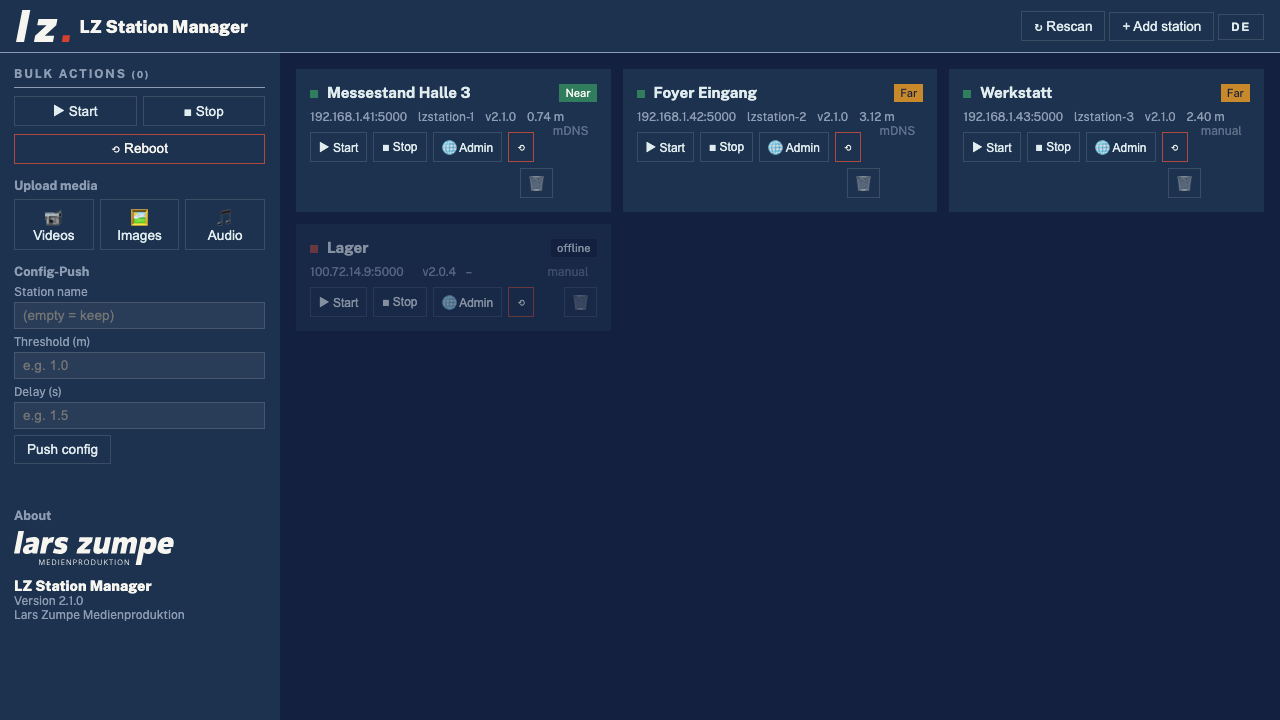
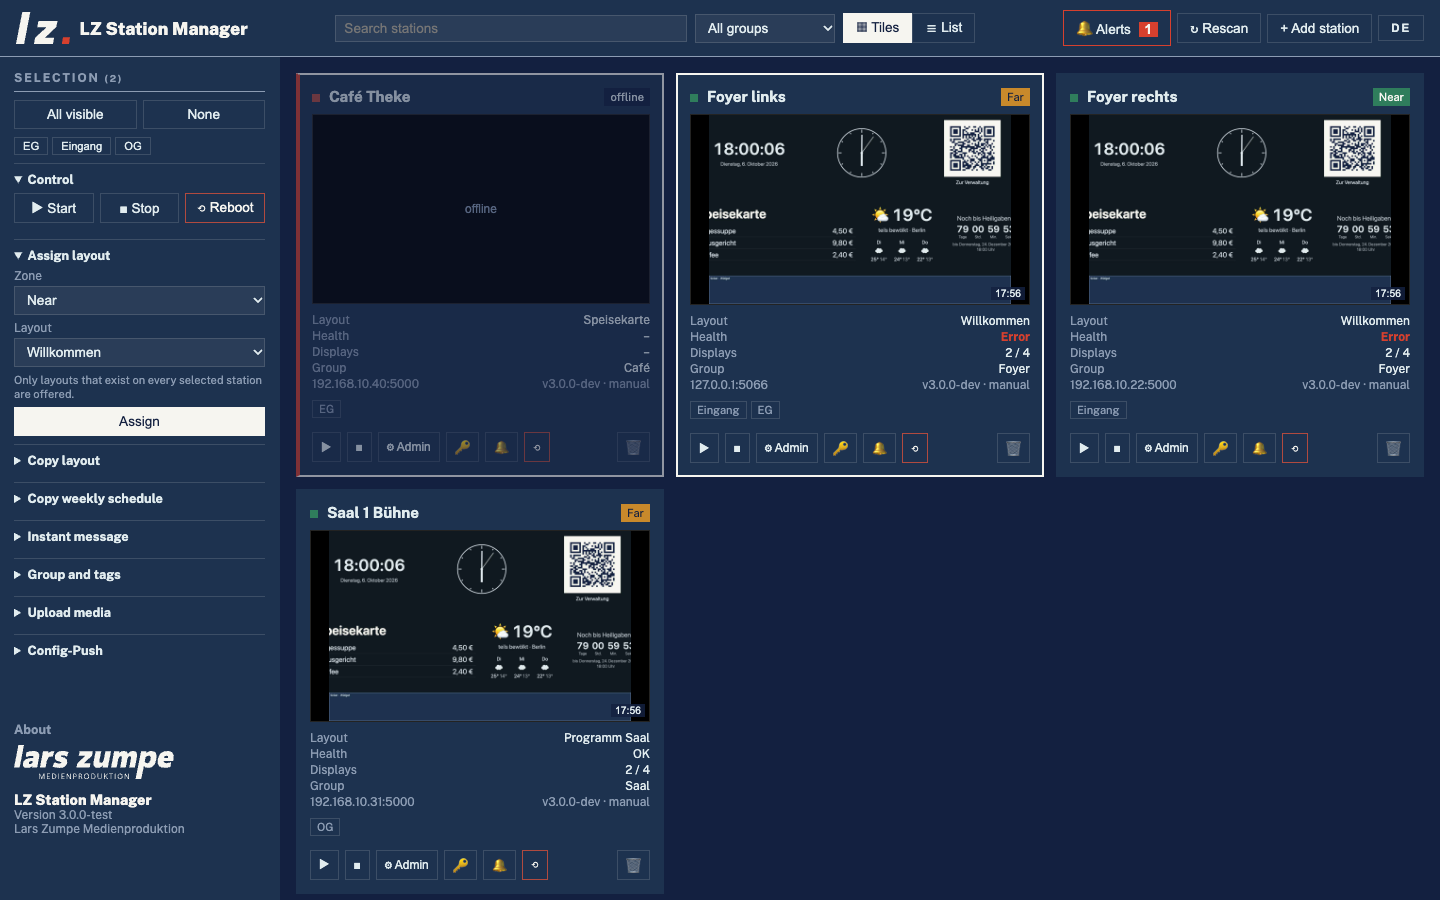
Station Manager: letztes Bild bei Zeitueberschreitung, Doku, Screenshots
- Bleibt ein frisch angefordertes Bild aus (gedrosselte Anzeige,
  Wartezeit vorbei), zeigt die Kachel das letzte vorhandene und nennt den
  Grund, statt leer zu bleiben.
- Seitenleisten-Knoepfe brechen nicht mehr um.
- README.md / README.de.md / station-manager/README.md: Kacheln, Gruppen
  und Tags, Massenaktionen, Alarme, eingebettete Verwaltung, PIN, Tests.
- docs/screenshot-manager(-en).png neu: Renderer im Browser mit
  nachgebildetem Preload gegen eine echte Station; drei der vier Kacheln
  zeigen auf dieselbe Test-Station, eine ist als offline gestellt.

Claude-Session: https://claude.ai/code/session_01M53rEYyrwwg2Q9M5eHhyqa

diff --git a/station-manager/main.js b/station-manager/main.js
@@ -329,18 +329,22 @@ ipcMain.handle('station:screenshot', async (_e, id, anfordern) => {
     if (!s) return { error: 'unknown station' };
     const basis = `http://${s.host}:${s.port}`;
     let pfad = '/api/anzeige/screenshot';
+    let hinweis = null;
     try {
         if (anfordern) {
             const r = await httpJson(`${basis}/api/anzeige/screenshot/anfordern`,
                                      { method: 'POST', headers: pinHeaders(s), timeout: 8000 }, {});
             if (r.status === 401) return { needsPin: true };
-            if (r.status !== 200) return { error: (r.body && r.body.error) || `HTTP ${r.status}` };
-            pfad = r.body.url || pfad;
+            // Kein frisches Bild in der Wartezeit (z. B. Anzeige gedrosselt):
+            // das letzte vorhandene zeigen und den Grund dazu sagen, statt
+            // eine leere Kachel zu lassen.
+            if (r.status === 200) pfad = r.body.url || pfad;
+            else hinweis = (r.body && r.body.error) || `HTTP ${r.status}`;
         }
         const b = await httpRaw(`${basis}${pfad}`, { timeout: 5000 });
-        if (b.status !== 200) return { fehlt: true };
+        if (b.status !== 200) return hinweis ? { error: hinweis } : { fehlt: true };
         return { ok: true, bild: `data:${b.typ || 'image/jpeg'};base64,${b.daten.toString('base64')}`,
-                 zeit: b.zeit || null };
+                 zeit: b.zeit || null, hinweis };
     } catch (e) { return { error: e.message }; }
 });
 ipcMain.handle('station:adminUrl', (_e, id) => {

diff --git a/station-manager/renderer/app.js b/station-manager/renderer/app.js
@@ -167,7 +167,10 @@ async function holeVorschau(s, anfordern) {
         r = await window.station.screenshot(s.id, anfordern);
     }
     const neu = { ...(vorschau.get(s.id) || {}), laedt: false };
-    if (r && r.ok) { neu.bild = r.bild; neu.zeit = r.zeit; neu.fehler = null; }
+    if (r && r.ok) {
+        neu.bild = r.bild; neu.zeit = r.zeit; neu.fehler = null;
+        if (r.hinweis && anfordern) setFeedback(`${s.name}: ${tr(r.hinweis)} — ${tr('letztes Bild')}`, 'error');
+    }
     else if (r && r.error && anfordern) {
         neu.fehler = r.error;
         setFeedback(`${s.name}: ${tr(r.error)}`, 'error');

diff --git a/station-manager/renderer/i18n-en.js b/station-manager/renderer/i18n-en.js
@@ -119,7 +119,10 @@ window.LZ_I18N_EN = /*JSON*/{
   "Keine Anzeige mehr verbunden": "No display connected any more",
   "Eine Anzeige ist nicht mehr verbunden": "A display disconnected",
   "Anzeige wieder verbunden": "Display reconnected",
-  "keine Antwort": "no answer"
+  "keine Antwort": "no answer",
+  "letztes Bild": "showing the last image",
+  "Keine Anzeige hat innerhalb der Wartezeit ein Bild geliefert": "No display delivered an image in time",
+  "Keine Anzeige hoert zu — ist eine Anzeigeseite offen?": "No display is listening — is a display page open?"
  },
  "muster": [
   [

diff --git a/station-manager/renderer/style.css b/station-manager/renderer/style.css
@@ -205,6 +205,7 @@ header .actions { display: flex; gap: 6px; align-items: center; }
 .sidebar .klein, .klein { font-size: 0.7rem; color: var(--muted); margin-bottom: 6px; }
 .sidebar .zwei { display: grid; grid-template-columns: 1fr 1fr; gap: 6px; }
 .sidebar button.primary { width: 100%; }
+.sidebar .btn-row button { white-space: nowrap; padding: 6px 8px; }
 
 .chips { display: flex; flex-wrap: wrap; gap: 4px; margin: 4px 0 8px; }
 .chip { font-size: 0.7rem; padding: 2px 8px; background: transparent; border: 1px solid var(--line); color: var(--text); }

diff --git a/README.de.md b/README.de.md
@@ -145,11 +145,14 @@
 - Verwaltet **mehrere Pi-Stationen** zentral
 - **Auto-Discovery** via mDNS (`_lzstation._tcp` über Avahi)
 - **Manuelles Hinzufügen** per IP/Hostname
-- Live-Polling: Online-Status, Distanz, Zone
-- **Bulk-Aktionen**: Start / Stop / Reboot
+- **Kacheln oder Liste** je Station: Zone, aktives Layout, Gesundheit, Anzeigen online, letzter Screenshot als Vorschau (Klick = frisches Bild anfordern), Version
+- **Suche, Gruppen und Tags**: Gruppen und Tags liegen nur im Manager; Filter nach Gruppe oder Tag
+- **Massenaktionen auf die Auswahl**, mit Ergebnis je Station: Layout einer Zone zuweisen, Layout auf andere Stationen kopieren (mit Liste fehlender Medien), Wochenprogramm kopieren (fehlende Layouts werden vorher gemeldet), Sofortmeldung ein/aus, Start / Stop / Reboot
 - **Bulk-Upload**: dieselbe Datei an N Stationen gleichzeitig
 - **Config-Push**: Stationsname, Schwelle, Verzögerung
-- Direktsprung in die Web-Admin-UI jeder Station
+- **Alarme**: Abfrage alle 10 s; geht eine Station offline, kippt die Gesundheit auf *Fehler* oder fällt eine Anzeige weg, gibt es eine Systembenachrichtigung und einen Eintrag in der Alarmliste — je Station stummschaltbar
+- **Verwaltung eingebettet**: `/admin` jeder Station öffnet sich im Manager; „Im Browser öffnen" bleibt
+- **PIN**: Stationen mit Admin-PIN fragen einmal danach; der Manager schickt sie als `X-LZ-Pin` mit
 - Builds für **Windows (NSIS + Portable)**, **macOS (Intel + Apple Silicon)**, **Linux (AppImage)**
 
 ---
@@ -428,12 +431,14 @@ Artefakte in `station-manager/dist/`.
 ### Workflow
 
 1. **Discovery**: alle Pis im LAN mit Avahi-Service erscheinen automatisch
-2. **Manuell adden**: per IP wenn mDNS nicht durchkommt (z. B. via Tailscale)
-3. **Auswahl**: Karten anklicken → Bulk-Aktionen aktiv
-4. **Bulk**: Start / Stop / Reboot, Media-Upload, Config-Push
-5. **Admin öffnen**: pro Karte öffnet `/admin` im System-Browser
+2. **Manuell hinzufügen**: per IP, wenn mDNS nicht durchkommt (z. B. via Tailscale)
+3. **Ordnen**: Stationen bekommen eine Gruppe und Tags (Seitenleiste, „Gruppe und Tags"); oben filtern
+4. **Auswählen**: Kacheln anklicken, oder „Alle sichtbaren" für alles, was der Filter zeigt
+5. **Handeln**: Layout zuweisen oder kopieren, Wochenprogramm kopieren, Sofortmeldung, Start / Stop / Reboot, Upload, Config-Push — die Ergebnisliste zeigt jede Station einzeln
+6. **Beobachten**: rote Kacheln und der Alarmzähler zeigen, was Aufmerksamkeit braucht; die Glocke an einer Kachel schaltet die Station stumm
+7. **Verwaltung**: „Verwaltung" an einer Kachel öffnet `/admin` im Manager
 
-Persistente Daten der App: `%APPDATA%\station-manager\stations.json` (Win) bzw. `~/Library/Application Support/station-manager/` (Mac).
+Persistente Daten der App (`stations.json`, `pins.json`, `gruppen.json`): `%APPDATA%\station-manager\` (Win) bzw. `~/Library/Application Support/station-manager/` (Mac).
 
 ---
 

diff --git a/README.md b/README.md
@@ -146,11 +146,14 @@ The detailed documentation in [`docs/`](docs/README.md) is written in German.
 - Manages **several Pi stations** centrally
 - **Auto-discovery** via mDNS (`_lzstation._tcp` over Avahi)
 - **Add manually** by IP/hostname
-- Live polling: online state, distance, zone
-- **Bulk actions**: start / stop / reboot
+- **Tiles or list** per station: zone, active layout, health, displays online, last screenshot as preview (click = request a fresh one), version
+- **Search, groups and tags**: groups and tags live in the Manager only; filter by group or tag
+- **Bulk actions on the selection**, with a result per station: assign a layout to a zone, copy a layout to other stations (with a list of missing media), copy the weekly schedule (missing layouts are reported first), instant message on/off, start / stop / reboot
 - **Bulk upload**: the same file to N stations at once
 - **Config push**: station name, threshold, delay
-- Jump straight into each station's web admin
+- **Alerts**: polled every 10 s; a station going offline, health turning to *error* or a display dropping out raises a system notification and an entry in the alert list — mutable per station
+- **Admin embedded**: each station's `/admin` opens inside the Manager; "Open in browser" stays available
+- **PIN**: stations with an admin PIN are asked for it once; the Manager sends it as `X-LZ-Pin`
 - Builds for **Windows (NSIS + portable)**, **macOS (Intel + Apple Silicon)**, **Linux (AppImage)**
 
 ---
@@ -422,11 +425,13 @@ Artifacts end up in `station-manager/dist/`.
 
 1. **Discovery**: every Pi on the LAN with the Avahi service appears automatically
 2. **Add manually**: by IP when mDNS does not get through (e.g. via Tailscale)
-3. **Select**: click cards → bulk actions become active
-4. **Bulk**: start / stop / reboot, media upload, config push
-5. **Open admin**: each card opens `/admin` in the system browser
+3. **Organise**: give stations a group and tags (sidebar, "Group and tags"); filter at the top
+4. **Select**: click tiles, or "All visible" for everything the filter shows
+5. **Act**: assign or copy a layout, copy the weekly schedule, send an instant message, start / stop / reboot, upload, push config — the result list shows each station's outcome
+6. **Watch**: red tiles and the alert counter show what needs attention; the bell on a tile mutes that station
+7. **Admin**: "Admin" on a tile opens `/admin` inside the Manager
 
-The app's persistent data: `%APPDATA%\station-manager\stations.json` (Windows) or `~/Library/Application Support/station-manager/` (Mac).
+The app's persistent data (`stations.json`, `pins.json`, `gruppen.json`): `%APPDATA%\station-manager\` (Windows) or `~/Library/Application Support/station-manager/` (Mac).
 
 ---
 

diff --git a/station-manager/README.md b/station-manager/README.md
@@ -6,15 +6,21 @@ Verwaltet mehrere LZ Media Stations (Raspberry Pi) im LAN über eine Electron-Ob
 
 - **Auto-Discovery** via mDNS (Avahi auf den Pis: `_lzstation._tcp`)
 - **Manuelles Hinzufügen** per IP/Hostname
-- Live-Status pro Station (Distanz, Zone, Online)
-- **Bulk-Aktionen**: Start / Stop / Reboot mehrerer Stationen
-- **Bulk-Upload** Videos / Bilder / Audio (gleiche Dateien an N Stationen)
-- **Config-Push**: Stationsname, Schwelle, Verzögerung an Auswahl pushen
-- Direkter Sprung in die Web-Admin-UI jeder Station
+- **Kacheln oder Liste**: Zone, aktives Layout, Gesundheit, Anzeigen online, letzter Screenshot (Klick = neues Bild anfordern), Version
+- **Suche, Gruppen, Tags** — nur im Manager gespeichert (`gruppen.json`)
+- **Massenaktionen auf die Auswahl**, Ergebnis je Station:
+  - Layout einer Zone zuweisen (angeboten wird nur, was alle Ziele kennen)
+  - Layout kopieren (`GET /api/layouts/<id>` → anlegen/ersetzen; fehlende Medien werden aufgelistet)
+  - Wochenprogramm kopieren (fehlende Layouts auf dem Ziel werden vorher gemeldet)
+  - Sofortmeldung ein/aus
+  - Start / Stop / Reboot, Upload, Config-Push
+- **Alarme**: Abfrage alle 10 s; gemeldet wird nur ein Übergang (offline, Gesundheit *Fehler*, Anzeige weg) — als Systembenachrichtigung und in der Alarmliste, je Station stummschaltbar. Die Logik steht in `alarme.js` und wird mit `npm test` (`node --test`) geprüft.
+- **Verwaltung eingebettet** im `webview`; „Im Browser öffnen" bleibt
+- **PIN** je Station (`pins.json`, Datei 0600), gesendet als `X-LZ-Pin`
 
 ## Voraussetzung auf jedem Pi
 
-- `lz-media-station` ≥ v2.1.0 (`/api/identity` Endpoint)
+- `lz-media-station` ≥ v2.1.0 (`/api/identity` Endpoint); Layouts, Programm, Sofortmeldung, Screenshot und Anzeigen-Zahl ab 3.0 — ältere Stationen erscheinen weiter, die neuen Aktionen melden dort einen Fehler je Station
 - `avahi-daemon` läuft (wird vom `install_pi.sh` mitinstalliert)
 - Datei `/etc/avahi/services/lzstation.service` vorhanden
 
@@ -25,6 +31,14 @@ cd station-manager
 npm install
 npm start
 ```
+
+## Tests
+
+```bash
+npm test          # node --test test/*.test.js (Alarm-Übergänge)
+```
+
+Die Verdrahtung Preload ↔ Hauptprozess prüft `tests/test_manager.py` im Wurzelverzeichnis.
 
 ## Build
 
